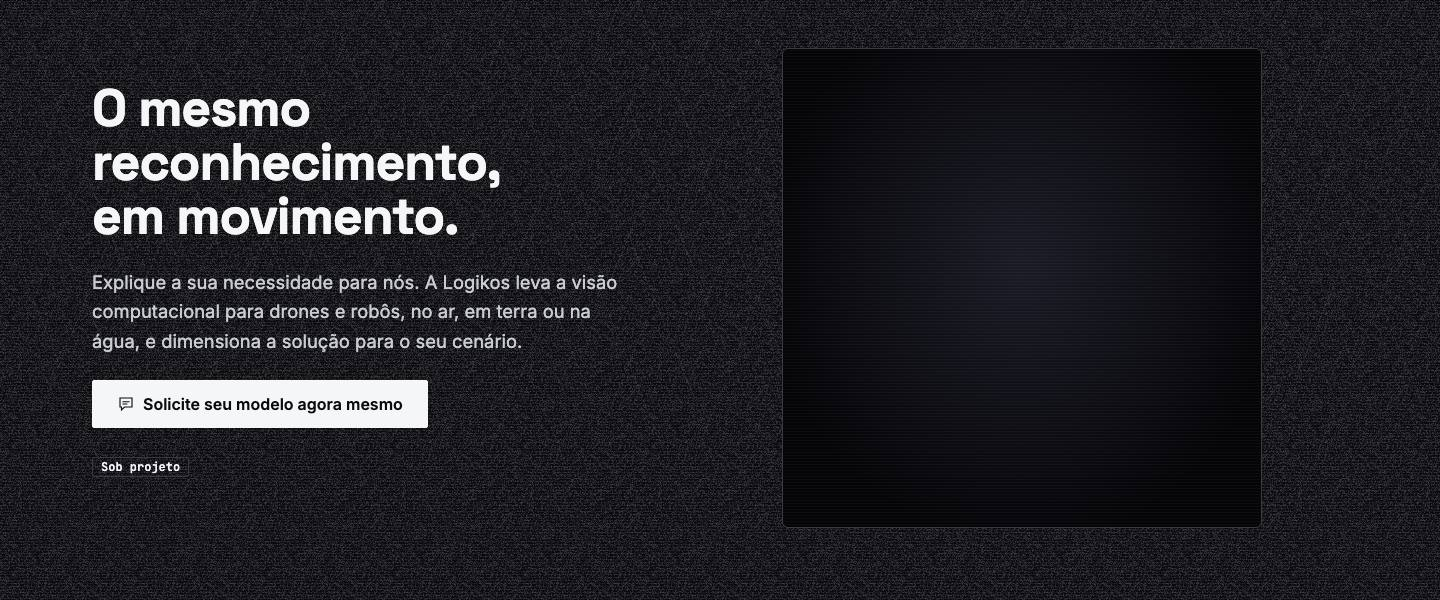
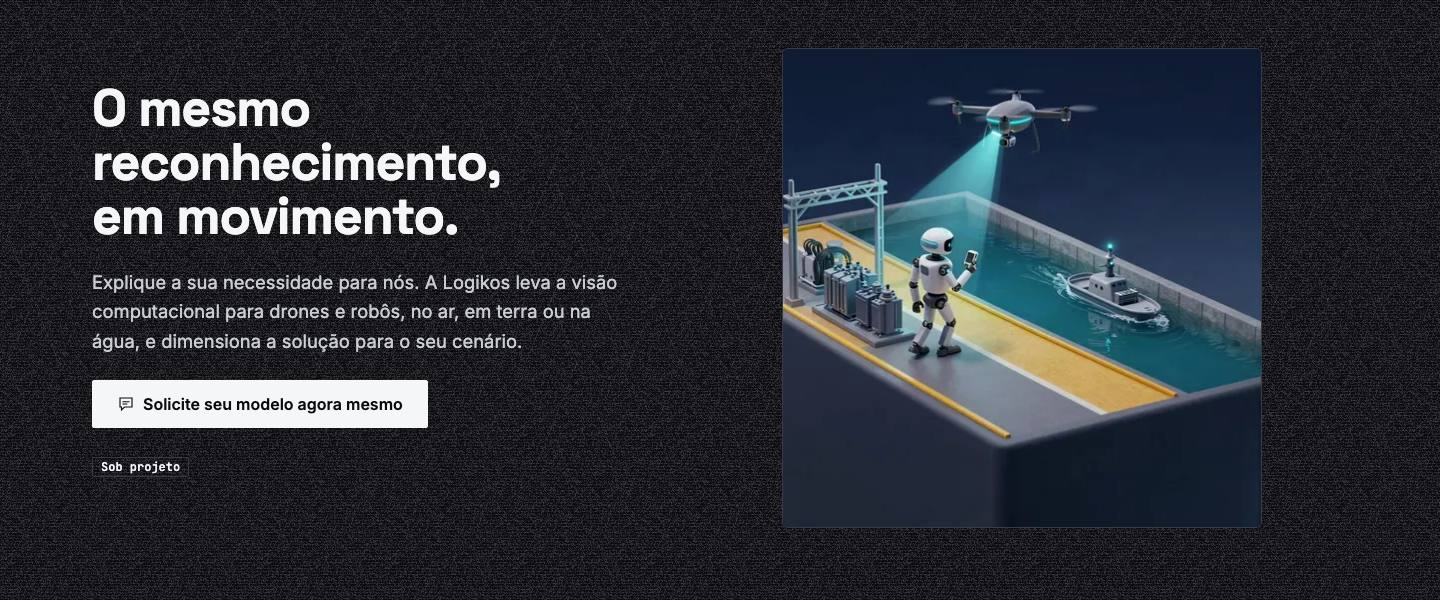
docs: resultado da rodada 3 (abertura, aviso LGPD, robótica humanoide) e prints

diff --git a/docs/design/rodada-solucoes/RESULTADO.md b/docs/design/rodada-solucoes/RESULTADO.md
@@ -103,3 +103,56 @@ Verificação: `astro check` 0 erros · ESLint ok · `gate:text` e `gate:i18n` o
 
 11. **Vídeo de presença:** o canto superior direito mostra o texto "HIKVISION", que é a marca d'água da própria câmera. O site já cita Hikvision como câmera compatível, então mantive. Quer uma versão do vídeo sem esse texto (recorte ou desfoque na edição)?
 12. **Animação de robótica:** está numa cena única com os três. Prefere assim ou um carrossel de três quadros (um por ambiente)?
+
+## Rodada 3 (12/11/2026): abertura, aviso LGPD, robótica humanoide
+
+Prévia: https://solucoes.logikos-site.pages.dev · prints `prints/r3-*`.
+
+### A) Abertura (TV)
+
+As 4 causas foram confirmadas no código e corrigidas em `src/views/HomeView.astro`:
+
+1. **`stalled`**: saiu. Só `waiting` conta como travamento, e o timer (6 s) só encerra se o `currentTime` não avançou. Prova: com um `stalled` falso aos 0,8 s, o **código antigo cortava em 3,8 s, sem mergulho** (2 de 2 na prévia antiga). O novo toca **4,63 s de 4,63 s, com mergulho**.
+2. **iOS/Safari**: `play()` logo de saída, mais o atributo `autoplay` (mudo + `playsinline`). O relógio começa no `playing`, não no `canplaythrough`. O limite passou a ser "duração + 3 s a partir do 1º quadro", e só encerra se o vídeo parou de avançar.
+3. **`play()` recusado**: tenta de novo em `canplay`. Se falhar de vez, o pôster fica com um botão grande, "Reproduzir a abertura", em vez de pular.
+4. **Toque no overlay**: não pula mais. Só "Pular" e Esc.
+
+Testes:
+
+- Chromium, cache frio e Fast 4G, na prévia: tocou 4,63/4,63 s, com mergulho.
+- Chromium com `stalled` falso: inteira.
+- WebKit do Playwright: esse navegador de teste recusa qualquer `play()` sem gesto, mesmo mudo e com janela (política do ambiente, não do Safari real). O fallback funcionou: o botão aparece, e um toque toca 4,63/4,63 s com mergulho, a 1440 e a 390.
+- "Pular" e Esc fecham; clique no overlay não fecha.
+- Testes permanentes em `tests/e2e/abertura-consentimento.spec.ts`.
+- ⚠ Ainda falta conferir num iPhone e num Safari de verdade.
+
+### B) Aviso de cookies e privacidade (LGPD)
+
+- **Componente `Consentimento.astro`, em todas as páginas e nas duas línguas:** barra fixa no rodapé com texto curto e verdadeiro e link para a política. "Aceitar" e "Recusar" têm o mesmo estilo. A escolha fica em `localStorage` (`lk-consentimento`: `{valor: aceito|recusado, data}`).
+- **Nunca por cima da abertura:** a barra espera a classe `lk-abre` sair do `<html>`.
+- **Beacon do Cloudflare Web Analytics só depois de "Aceitar":** saiu do `Base.astro`. Testado com um build com token de teste e a chamada interceptada:
+  - 0 requisições antes da escolha e depois de "Recusar";
+  - 1 requisição depois de "Aceitar";
+  - em cada página nova, só se aceito.
+- **"Preferências de cookies" no rodapé** reabre a barra com o foco em "Aceitar". Depois da escolha, o foco volta ao link.
+- **/privacidade e /en/privacy:** seção nova, "Cookies e armazenamento local". Diz o que fica no navegador (sessão da abertura e do logo, o código do link de e-mail do CRM e a escolha de consentimento), que a medição é anônima, sem cookies e só com aceite, e como mudar a escolha. Nenhum selo novo.
+- **Acessibilidade e layout:**
+  - `role=region` com rótulo; axe 0 violações na barra; Tab chega no link, em "Aceitar" e em "Recusar".
+  - A 360 px, fica **acima** da barra de atalhos da home (não cobre o CTA).
+  - **CLS 0**: posição fixa, e o espaço no fim da página é reservado só enquanto a barra está aberta.
+- ⚠ Se o Web Analytics estiver ligado no painel da Cloudflare em modo **automático** (injeção pelo Pages), ele não passa por esse aviso. Use só o token por variável (`PUBLIC_CF_ANALYTICS_TOKEN`).
+
+### Drones aéreos, humanoides e aquáticos
+
+- **Textos (PT/EN):** "quadrúpede" virou "robô humanoide" no nome do case (cartão), na meta de /robotica, em "Terra" ("inspeção de painéis e máquinas, leitura de instrumentos e rondas em áreas de risco"), no passo "Escolhemos a plataforma" e em `products.robotics`. Nenhuma ocorrência de "quadrúpede/quadruped" no site gerado.
+- **Animação de traço:** reprovada e removida.
+- **Imagem aprovada** (`humanoide-energia.jpg`, webp 1280 e 480): está no cartão e no hero de /robotica, com zoom lento (1 → 1,04 em 14 s) e brilho do feixe do drone (opacidade 0,15 ↔ 0,45). Fica parada com reduced motion. A home não tem esse case, então não entrou lá.
+
+### Merge com a main (PR #51, rastreio do CRM)
+
+`origin/main` entrou na branch antes do deploy. O `Base.astro` mantém o script `rastreio-crm` e o aviso de cookies. Unit 58/58 (inclui `rastreio-crm.test.ts`) e e2e **101/101**.
+
+### Perguntas novas
+
+13. **O aviso no CRM** (o `?r=OP-…` dos e-mails avisa "site visitado") roda sem esperar o "Aceitar". Ele não manda dado pessoal, só o código do card, e está descrito na política. Quer que ele também dependa do aceite?
+14. **Testar a abertura num iPhone real** (Safari e modo economia de energia) antes de produção: o ambiente de testes não reproduz o autoplay do Safari.
